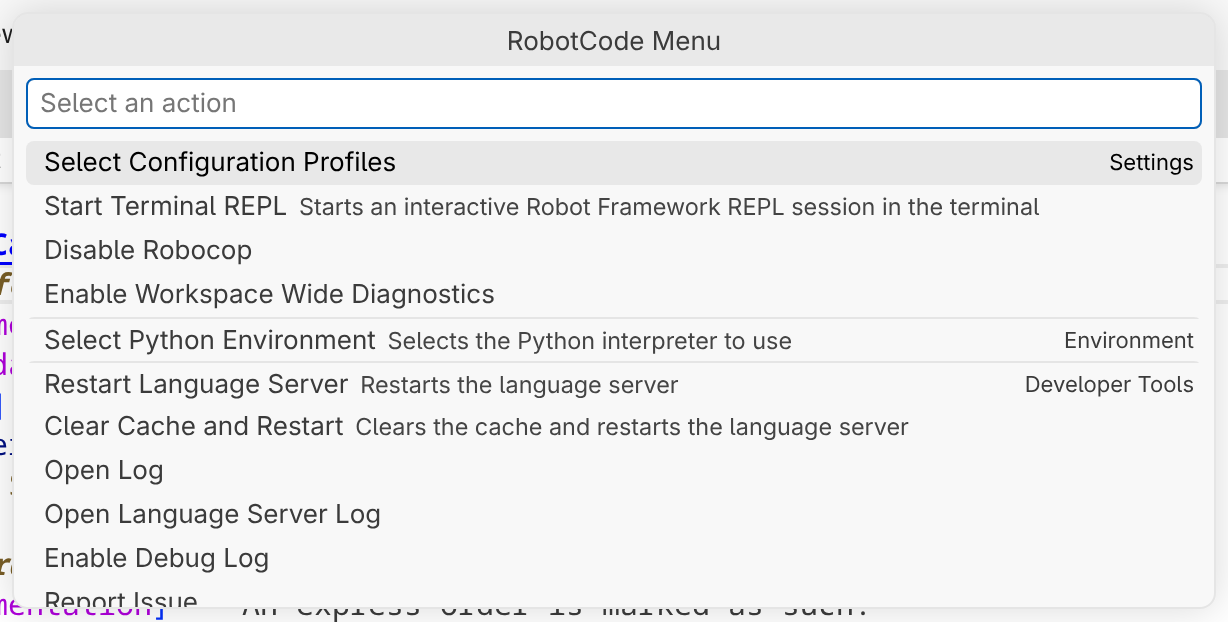
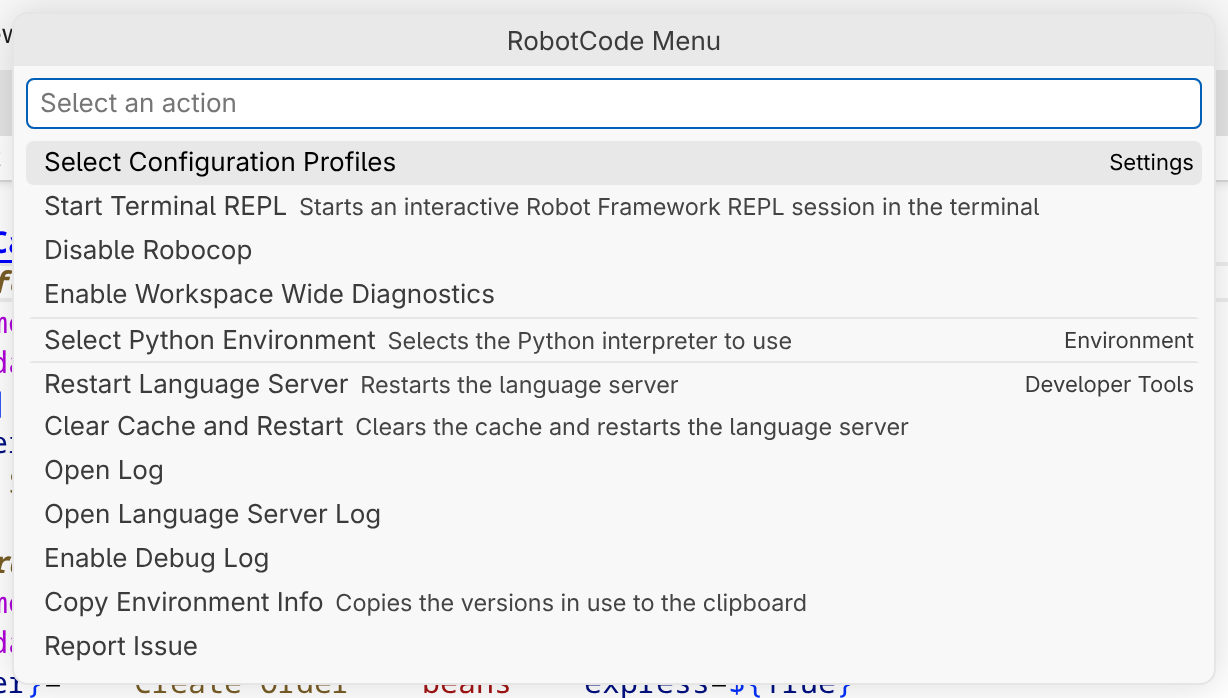
feat(vscode): copy the versions in use for a report
RobotCode: Copy Environment Info, also in the RobotCode menu at the language
status, copies the versions of VS Code, RobotCode, the operating system,
Python, Robot Framework and Robocop of a workspace folder as a list for an
issue, a forum post or a chat (#260). It also works while the folder's
language server doesn't run.

diff --git a/vscode-client/extension/languageToolsManager.ts b/vscode-client/extension/languageToolsManager.ts
@@ -17,12 +17,14 @@ import {
 import { PythonManager } from "./pythonmanger";
 import { LanguageStatusSeverity } from "vscode";
 import { TestControllerManager } from "./testcontrollermanager";
+import { NOT_INSTALLED, environmentInfoText, robotFrameworkVersionText } from "./environmentInfo";
 
+import * as os from "os";
 import * as path from "path";
 import * as fs from "fs-extra";
 
-const NOT_INSTALLED = "not installed";
-const UNKNOWN = "unknown";
+// how long the copy of the environment info waits for the language server's versions
+const PROJECT_INFO_TIMEOUT = 5000;
 
 type QuickPickActionItem = {
   label?: string;
@@ -181,6 +183,13 @@ export class LanguageToolsManager {
             .getConfiguration(CONFIG_SECTION, folder)
             .update("languageServer.extraArgs", ["--verbose", "--log", "--log-level", "DEBUG"]);
         }
+      },
+    },
+    {
+      label: "Copy Environment Info",
+      description: "Copies the versions in use to the clipboard",
+      action: async (folder?: vscode.WorkspaceFolder): Promise<void> => {
+        await vscode.commands.executeCommand("robotcode.copyEnvironmentInfo", folder);
       },
     },
     {
@@ -346,6 +355,43 @@ export class LanguageToolsManager {
         };
 
         await vscode.commands.executeCommand("workbench.action.openIssueReporter", args);
+      }),
+
+      // also without a running language server: a broken environment is when a report is needed most
+      vscode.commands.registerCommand("robotcode.copyEnvironmentInfo", async (folder?: vscode.WorkspaceFolder) => {
+        if (folder === undefined && vscode.window.activeTextEditor !== undefined) {
+          folder = vscode.workspace.getWorkspaceFolder(vscode.window.activeTextEditor.document.uri);
+        }
+        const workspaceFolders = vscode.workspace.workspaceFolders ?? [];
+        if (folder === undefined && workspaceFolders.length === 1) {
+          folder = workspaceFolders[0];
+        } else if (folder === undefined && workspaceFolders.length > 1) {
+          folder = await vscode.window.showWorkspaceFolderPick();
+          if (folder === undefined) return;
+        }
+
+        const pythonInfo = folder !== undefined ? await this.pythonManager.getPythonInfo(folder) : undefined;
+        const text = environmentInfoText({
+          vscodeVersion: vscode.version,
+          appName: vscode.env.appName,
+          remoteName: vscode.env.remoteName,
+          os: `${os.type()} ${os.arch()} ${os.release()}`,
+          extensionVersion: this.extensionContext.extension.packageJSON.version,
+          projectInfo: folder !== undefined ? await this.getProjectInfoWithin(folder, PROJECT_INFO_TIMEOUT) : undefined,
+          environment: folder !== undefined ? this.languageClientsManager.getRobotEnvironmentState(folder) : undefined,
+          provisional:
+            folder !== undefined &&
+            this.languageClientsManager.isRobotEnvironmentKnownInvalid(folder) &&
+            this.languageClientsManager.isInStartupPhase(folder),
+          python: pythonInfo !== undefined ? { version: pythonInfo.version, kind: pythonInfo.type } : undefined,
+        });
+
+        await vscode.env.clipboard.writeText(text);
+        void vscode.window.showInformationMessage(
+          folder !== undefined
+            ? `Copied the environment info of ${folder.name} to the clipboard.`
+            : "Copied the environment info to the clipboard.",
+        );
       }),
 
       vscode.commands.registerCommand("robotcode.showToolMenu", async (folder?: vscode.WorkspaceFolder) => {
@@ -515,6 +561,31 @@ export class LanguageToolsManager {
     return doc;
   }
 
+  // the project info of the folder's language server, or nothing when there is none or it doesn't answer in time
+  private async getProjectInfoWithin(
+    folder: vscode.WorkspaceFolder,
+    timeout: number,
+  ): Promise<ProjectInfo | undefined> {
+    const tokenSource = new vscode.CancellationTokenSource();
+    let timer: NodeJS.Timeout | undefined;
+    try {
+      return await Promise.race([
+        this.languageClientsManager.getProjectInfo(folder, tokenSource.token),
+        new Promise<undefined>((resolve) => {
+          timer = setTimeout(() => {
+            tokenSource.cancel();
+            resolve(undefined);
+          }, timeout);
+        }),
+      ]);
+    } catch {
+      return undefined;
+    } finally {
+      clearTimeout(timer);
+      tokenSource.dispose();
+    }
+  }
+
   private removeFolder(folder: vscode.WorkspaceFolder) {
     if (this._workspaceFolderLanguageStatuses.has(folder)) {
       this._workspaceFolderLanguageStatuses.delete(folder);
@@ -633,20 +704,14 @@ export class LanguageToolsManager {
       this.languageClientsManager.isRobotEnvironmentKnownInvalid(folder) &&
       this.languageClientsManager.isInStartupPhase(folder);
     const robotProblem = provisional ? undefined : environmentState?.problem;
-    const installedRobotVersion = environmentState?.robotVersion;
 
     // the version of the language server, else the one the environment check found; while Robot Framework cannot be
     // checked, because the interpreter has a problem or the first check runs, it is unknown
-    this.robotVersion.text = `$(robotcode-robot) ${
-      projectInfo?.robotVersionString ??
-      (environmentState?.state === "usable" && installedRobotVersion !== undefined
-        ? installedRobotVersion
-        : robotProblem === "robotTooOld" && installedRobotVersion !== undefined
-          ? `${installedRobotVersion} (not supported)`
-          : robotProblem === "robotMissing"
-            ? NOT_INSTALLED
-            : UNKNOWN)
-    }`;
+    this.robotVersion.text = `$(robotcode-robot) ${robotFrameworkVersionText(
+      projectInfo?.robotVersionString,
+      environmentState,
+      provisional,
+    )}`;
     this.robotVersion.detail = `Robot Framework Version${
       robotProblem === "robotMissing"
         ? " - not installed in the Python environment"

diff --git a/vscode-client/test/environmentInfo.test.ts b/vscode-client/test/environmentInfo.test.ts
@@ -1,0 +1,129 @@
+import * as assert from "assert";
+
+import {
+  EnvironmentInfoValues,
+  environmentInfoText,
+  pythonVersionText,
+  robotFrameworkVersionText,
+} from "../extension/environmentInfo";
+
+const plain: EnvironmentInfoValues = {
+  vscodeVersion: "1.142.0",
+  appName: "Visual Studio Code",
+  os: "Linux x64 6.8.0",
+  extensionVersion: "2.8.0",
+  projectInfo: { robotVersionString: "7.5", robocopVersionString: "6.2.0", robotCodeVersionString: "2.8.0" },
+  environment: { state: "usable", robotVersion: "7.5" },
+  provisional: false,
+  python: { version: "3.13.12", kind: "venv" },
+};
+
+suite("environmentInfoText", () => {
+  test("lists the six fields of the bug report template for a plain setup", () => {
+    assert.strictEqual(
+      environmentInfoText(plain),
+      [
+        "- VS Code Version: 1.142.0",
+        "- RobotCode Version: 2.8.0",
+        "- OS: Linux x64 6.8.0",
+        "- Python Version: 3.13.12 (venv)",
+        "- RobotFramework Version: 7.5",
+        "- Additional tools: robotframework-robocop==6.2.0",
+      ].join("\n"),
+    );
+  });
+
+  test("names an editor that isn't VS Code after the VS Code version", () => {
+    assert.ok(
+      environmentInfoText({ ...plain, appName: "Cursor" }).startsWith("- VS Code Version: 1.142.0\n- Editor: Cursor\n"),
+    );
+    assert.ok(!environmentInfoText({ ...plain, appName: "Visual Studio Code - Insiders" }).includes("Editor"));
+  });
+
+  test("names the remote after the OS", () => {
+    assert.ok(environmentInfoText({ ...plain, remoteName: "wsl" }).includes("- OS: Linux x64 6.8.0\n- Remote: wsl\n"));
+  });
+
+  test("names the language server's RobotCode version only when it differs from the extension's", () => {
+    const projectInfo = { ...plain.projectInfo, robotCodeVersionString: "2.7.0" };
+    assert.ok(
+      environmentInfoText({ ...plain, projectInfo }).includes(
+        "- RobotCode Version: 2.8.0\n- RobotCode Language Server Version: 2.7.0\n",
+      ),
+    );
+    assert.ok(!environmentInfoText(plain).includes("Language Server"));
+  });
+
+  test("names no Robocop as none, and an unknown one without an answer of the language server", () => {
+    assert.ok(
+      environmentInfoText({ ...plain, projectInfo: { robotVersionString: "7.5" } }).endsWith(
+        "- Additional tools: none",
+      ),
+    );
+    assert.ok(environmentInfoText({ ...plain, projectInfo: undefined }).endsWith("- Additional tools: unknown"));
+  });
+
+  test("takes Robot Framework from the environment check without a language server", () => {
+    const text = environmentInfoText({
+      ...plain,
+      projectInfo: undefined,
+      environment: { state: "unusable", problem: "robotMissing" },
+    });
+    assert.ok(text.includes("- RobotFramework Version: not installed\n- Additional tools: unknown"));
+  });
+});
+
+suite("pythonVersionText", () => {
+  test("adds the kind of the environment when the Python side reports it", () => {
+    assert.strictEqual(pythonVersionText({ version: "3.13.12", kind: "venv" }, undefined, false), "3.13.12 (venv)");
+    assert.strictEqual(pythonVersionText({ version: "3.13.12" }, undefined, false), "3.13.12");
+  });
+
+  test("says that no interpreter is selected", () => {
+    assert.strictEqual(
+      pythonVersionText(undefined, { state: "unusable", problem: "noInterpreter" }, false),
+      "no interpreter selected",
+    );
+  });
+
+  test("is unknown when the Python side reports nothing, and in the startup phase", () => {
+    assert.strictEqual(pythonVersionText(undefined, undefined, false), "unknown");
+    assert.strictEqual(pythonVersionText(undefined, { state: "unusable", problem: "noInterpreter" }, true), "unknown");
+  });
+});
+
+suite("robotFrameworkVersionText", () => {
+  test("takes the language server's version first", () => {
+    assert.strictEqual(robotFrameworkVersionText("7.5", { state: "unusable", problem: "robotMissing" }, false), "7.5");
+  });
+
+  test("takes the version the environment check found", () => {
+    assert.strictEqual(
+      robotFrameworkVersionText(undefined, { state: "usable", robotVersion: "7.4.1" }, false),
+      "7.4.1",
+    );
+  });
+
+  test("marks a version older than 5.0 as not supported", () => {
+    assert.strictEqual(
+      robotFrameworkVersionText(undefined, { state: "unusable", problem: "robotTooOld", robotVersion: "4.1.3" }, false),
+      "4.1.3 (not supported)",
+    );
+  });
+
+  test("says that Robot Framework isn't installed", () => {
+    assert.strictEqual(
+      robotFrameworkVersionText(undefined, { state: "unusable", problem: "robotMissing" }, false),
+      "not installed",
+    );
+  });
+
+  test("is unknown while the check runs, without a check and in the startup phase", () => {
+    assert.strictEqual(robotFrameworkVersionText(undefined, { state: "checking" }, false), "unknown");
+    assert.strictEqual(robotFrameworkVersionText(undefined, undefined, false), "unknown");
+    assert.strictEqual(
+      robotFrameworkVersionText(undefined, { state: "unusable", problem: "robotMissing" }, true),
+      "unknown",
+    );
+  });
+});

diff --git a/vscode-client/extension/environmentInfo.ts b/vscode-client/extension/environmentInfo.ts
@@ -1,0 +1,97 @@
+// The versions of a workspace folder that a report about RobotCode, Robot Framework or Robocop needs, as a Markdown
+// list whose lines are named like the fields of RobotCode's bug report template.
+import type { ProjectInfo, RobotEnvironmentState } from "./languageclientsmanger";
+
+export const NOT_INSTALLED = "not installed";
+export const UNKNOWN = "unknown";
+
+/**
+ * The Robot Framework version of a folder as the language status shows it: the version of the folder's language
+ * server, else what the check of the environment found. While the folder is in its startup phase (`provisional`), a
+ * problem the check found isn't known yet.
+ */
+export function robotFrameworkVersionText(
+  languageServerVersion: string | undefined,
+  environment: RobotEnvironmentState | undefined,
+  provisional: boolean,
+): string {
+  const problem = provisional ? undefined : environment?.problem;
+  const found = environment?.robotVersion;
+
+  return (
+    languageServerVersion ??
+    (environment?.state === "usable" && found !== undefined
+      ? found
+      : problem === "robotTooOld" && found !== undefined
+        ? `${found} (not supported)`
+        : problem === "robotMissing"
+          ? NOT_INSTALLED
+          : UNKNOWN)
+  );
+}
+
+/** The Python version of a folder with the kind of its environment, without a name or a path. */
+export function pythonVersionText(
+  python: { readonly version: string; readonly kind?: string } | undefined,
+  environment: RobotEnvironmentState | undefined,
+  provisional: boolean,
+): string {
+  if (!provisional && environment?.problem === "noInterpreter") return "no interpreter selected";
+  if (python === undefined) return UNKNOWN;
+  return python.kind ? `${python.version} (${python.kind})` : python.version;
+}
+
+/** What the list of a folder is made of; the values of a folder are `undefined` where nothing is known. */
+export interface EnvironmentInfoValues {
+  readonly vscodeVersion: string;
+  readonly appName: string;
+  readonly remoteName?: string;
+  /** The operating system as VS Code's own system information names it: type, architecture and release. */
+  readonly os: string;
+  readonly extensionVersion: string;
+  /** The answer of the folder's language server. */
+  readonly projectInfo?: ProjectInfo;
+  readonly environment?: RobotEnvironmentState;
+  /** Whether the folder is in its startup phase, in which a problem of its environment isn't known yet. */
+  readonly provisional: boolean;
+  readonly python?: { readonly version: string; readonly kind?: string };
+}
+
+/**
+ * The list of the versions in `values`: the six lines of RobotCode's bug report template, and a line for the editor,
+ * the remote or the language server's RobotCode where they say something.
+ */
+export function environmentInfoText(values: EnvironmentInfoValues): string {
+  const { projectInfo } = values;
+  const languageServerVersion = projectInfo?.robotCodeVersionString;
+  const robocop =
+    projectInfo === undefined
+      ? UNKNOWN
+      : projectInfo.robocopVersionString
+        ? `robotframework-robocop==${projectInfo.robocopVersionString}`
+        : "none";
+
+  const lines: [string, string | undefined][] = [
+    ["VS Code Version", values.vscodeVersion],
+    // the Insiders build is VS Code too
+    ["Editor", values.appName.startsWith("Visual Studio Code") ? undefined : values.appName],
+    ["RobotCode Version", values.extensionVersion],
+    [
+      "RobotCode Language Server Version",
+      languageServerVersion && languageServerVersion !== values.extensionVersion ? languageServerVersion : undefined,
+    ],
+    ["OS", values.os],
+    ["Remote", values.remoteName],
+    ["Python Version", pythonVersionText(values.python, values.environment, values.provisional)],
+    [
+      "RobotFramework Version",
+      robotFrameworkVersionText(projectInfo?.robotVersionString, values.environment, values.provisional),
+    ],
+    ["Additional tools", robocop],
+  ];
+
+  return lines
+    .filter(([, value]) => value !== undefined)
+    .map(([name, value]) => `- ${name}: ${value}`)
+    .join("\n");
+}

diff --git a/openspec/changes/vscode-copy-environment-info/tasks.md b/openspec/changes/vscode-copy-environment-info/tasks.md
@@ -2,7 +2,7 @@
 
 ## 1. The list (D1, D2, D4, D5)
 
-- [ ] 1.1 Add `vscode-client/extension/environmentInfo.ts` with the function that builds the list from the gathered values (D1, D4, D5) and the function for the Robot Framework text (D2), and let `updateItems` in `languageToolsManager.ts` use the latter for the Robot Framework item. Unit tests in `vscode-client/test/environmentInfo.test.ts`:
+- [x] 1.1 Add `vscode-client/extension/environmentInfo.ts` with the function that builds the list from the gathered values (D1, D4, D5) and the function for the Robot Framework text (D2), and let `updateItems` in `languageToolsManager.ts` use the latter for the Robot Framework item. Unit tests in `vscode-client/test/environmentInfo.test.ts`:
   - the six lines of the plain setup, in the order and with the names of the bug template;
   - each extra line only with its setup: Editor for Cursor but not for "Visual Studio Code - Insiders", Remote, and the language server's RobotCode version only when it differs;
   - Additional tools with Robocop, with "none" and with "unknown";
@@ -13,15 +13,15 @@
 
 ## 2. The command (D3, D6, D7, D8)
 
-- [ ] 2.1 Register `robotcode.copyEnvironmentInfo` in `languageToolsManager.ts` and contribute it in `package.json` (D8): the folder as in D3, the values as in D4, the project info only from an existing client and for five seconds at most (D6), the copy with its confirmation (D7), and the entry "Copy Environment Info" before Report Issue in the RobotCode menu (D8). Verify with `npm run lint` and `xvfb-run -d npm test`.
+- [x] 2.1 Register `robotcode.copyEnvironmentInfo` in `languageToolsManager.ts` and contribute it in `package.json` (D8): the folder as in D3, the values as in D4, the project info only from an existing client and for five seconds at most (D6), the copy with its confirmation (D7), and the entry "Copy Environment Info" before Report Issue in the RobotCode menu (D8). Verify with `npm run lint` and `xvfb-run -d npm test`.
 
 ## 3. Documentation
 
-- [ ] 3.1 In `docs/src/content/docs/guides/vscode/troubleshooting.mdx`, explain "RobotCode: Copy Environment Info": that it copies the versions of the workspace folder as a list for an issue, a forum post or a chat, and that the RobotCode menu offers it too. Add the entry to the alt text of the menu screenshot, and take `troubleshooting-tool-menu-light.png` and `troubleshooting-tool-menu-dark.png` again with `playground/robotcode-demo/vscode/guide-troubleshooting.js` in the VS Code harness. Verify with `npm run docs:build` and by looking at both screenshots.
+- [x] 3.1 In `docs/src/content/docs/guides/vscode/troubleshooting.mdx`, explain "RobotCode: Copy Environment Info": that it copies the versions of the workspace folder as a list for an issue, a forum post or a chat, and that the RobotCode menu offers it too. Add the command to the table of commands in `docs/src/content/docs/guides/vscode/index.mdx`, which lists every command (requirement "Overview of the VS Code window" of `vscode-user-guide`). Add the entry to the alt text of the menu screenshot, and take `troubleshooting-tool-menu-light.png` and `troubleshooting-tool-menu-dark.png` again with `playground/robotcode-demo/vscode/guide-troubleshooting.js` in the VS Code harness. Verify with `npm run docs:build` and by looking at both screenshots.
 
 ## 4. Integration
 
-- [ ] 4.1 In the VS Code harness with the real Python extensions, read the clipboard after each step and check:
+- [x] 4.1 In the VS Code harness with the real Python extensions, read the clipboard after each step and check:
   - **Show Tool Menu** at the RobotCode item of the language status, then **Copy Environment Info**: the list of the active editor's folder, and the confirmation;
   - the command from the Command Palette in a workspace with two folders: the folder of the active editor; without an editor the pick, and nothing copied when the pick is cancelled;
   - a folder whose environment has no Robot Framework, so that its language server doesn't run: `not installed` and `unknown`;
